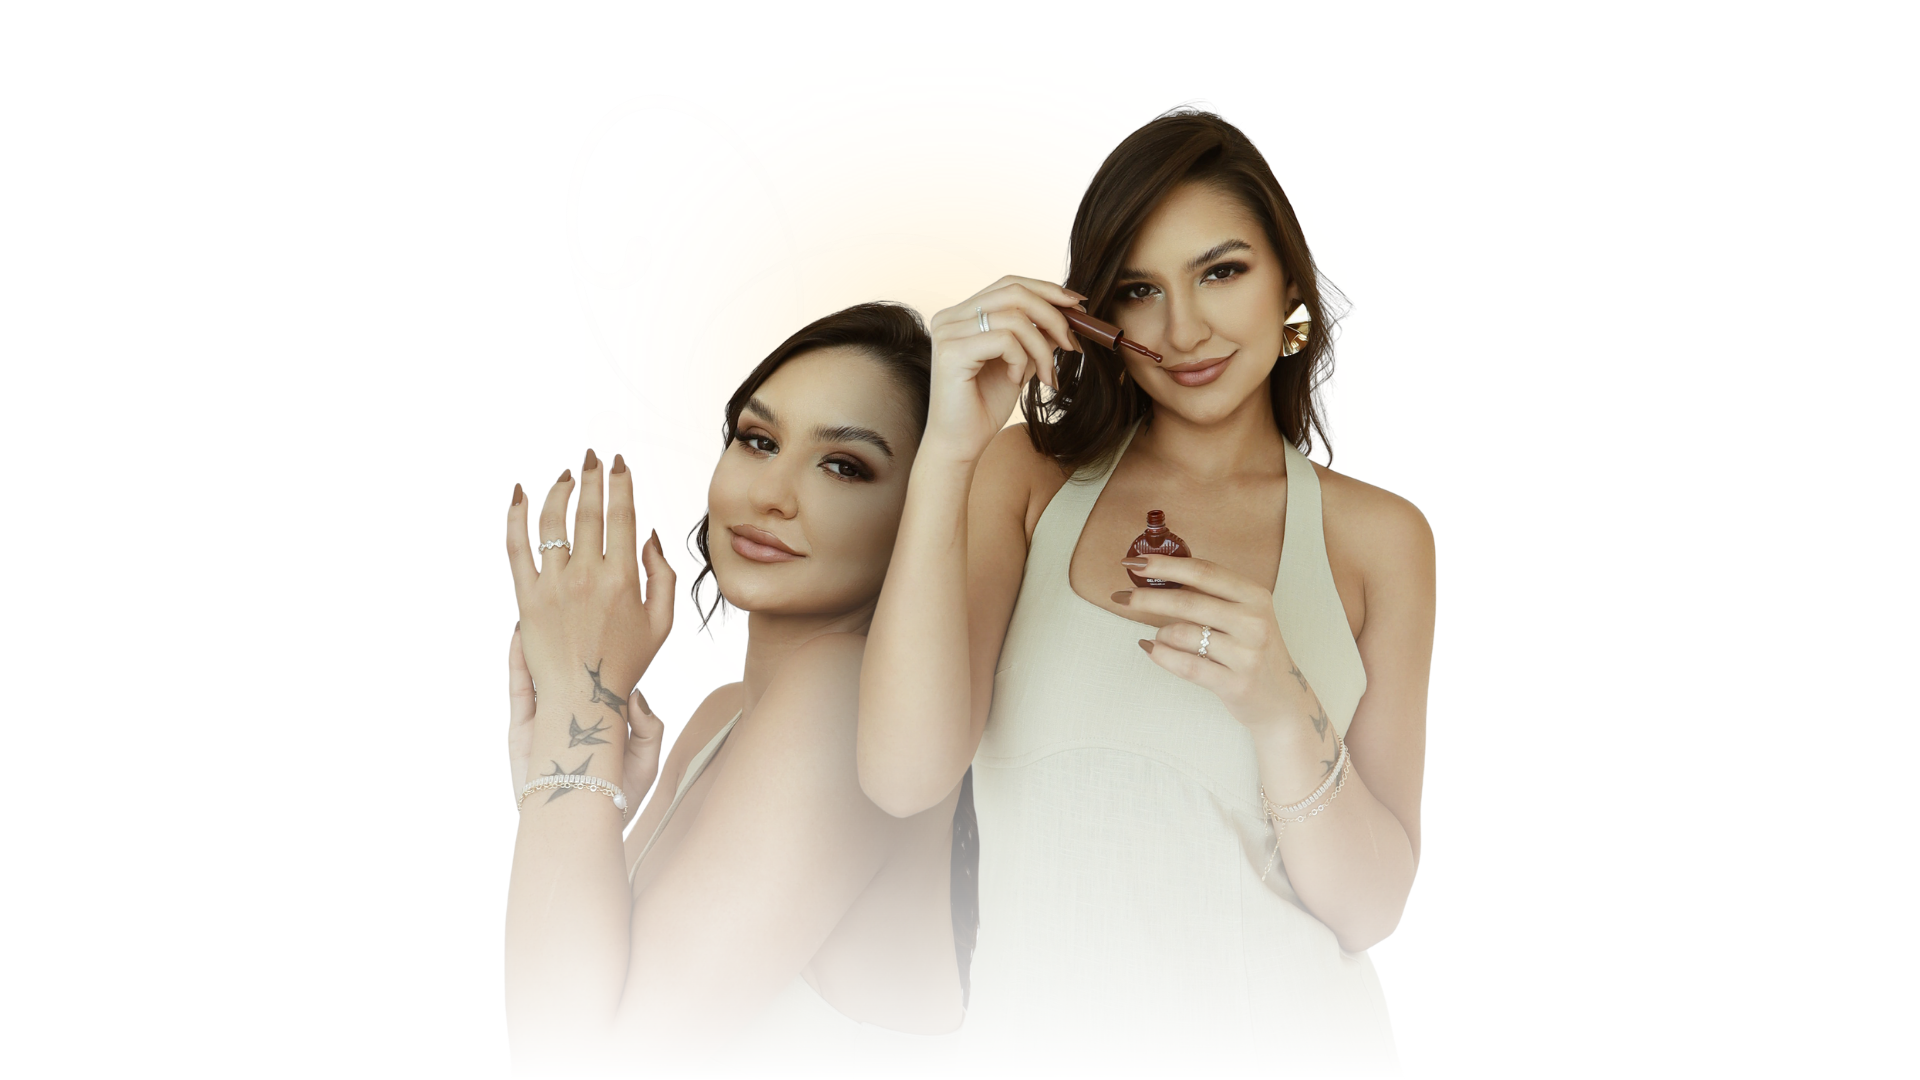
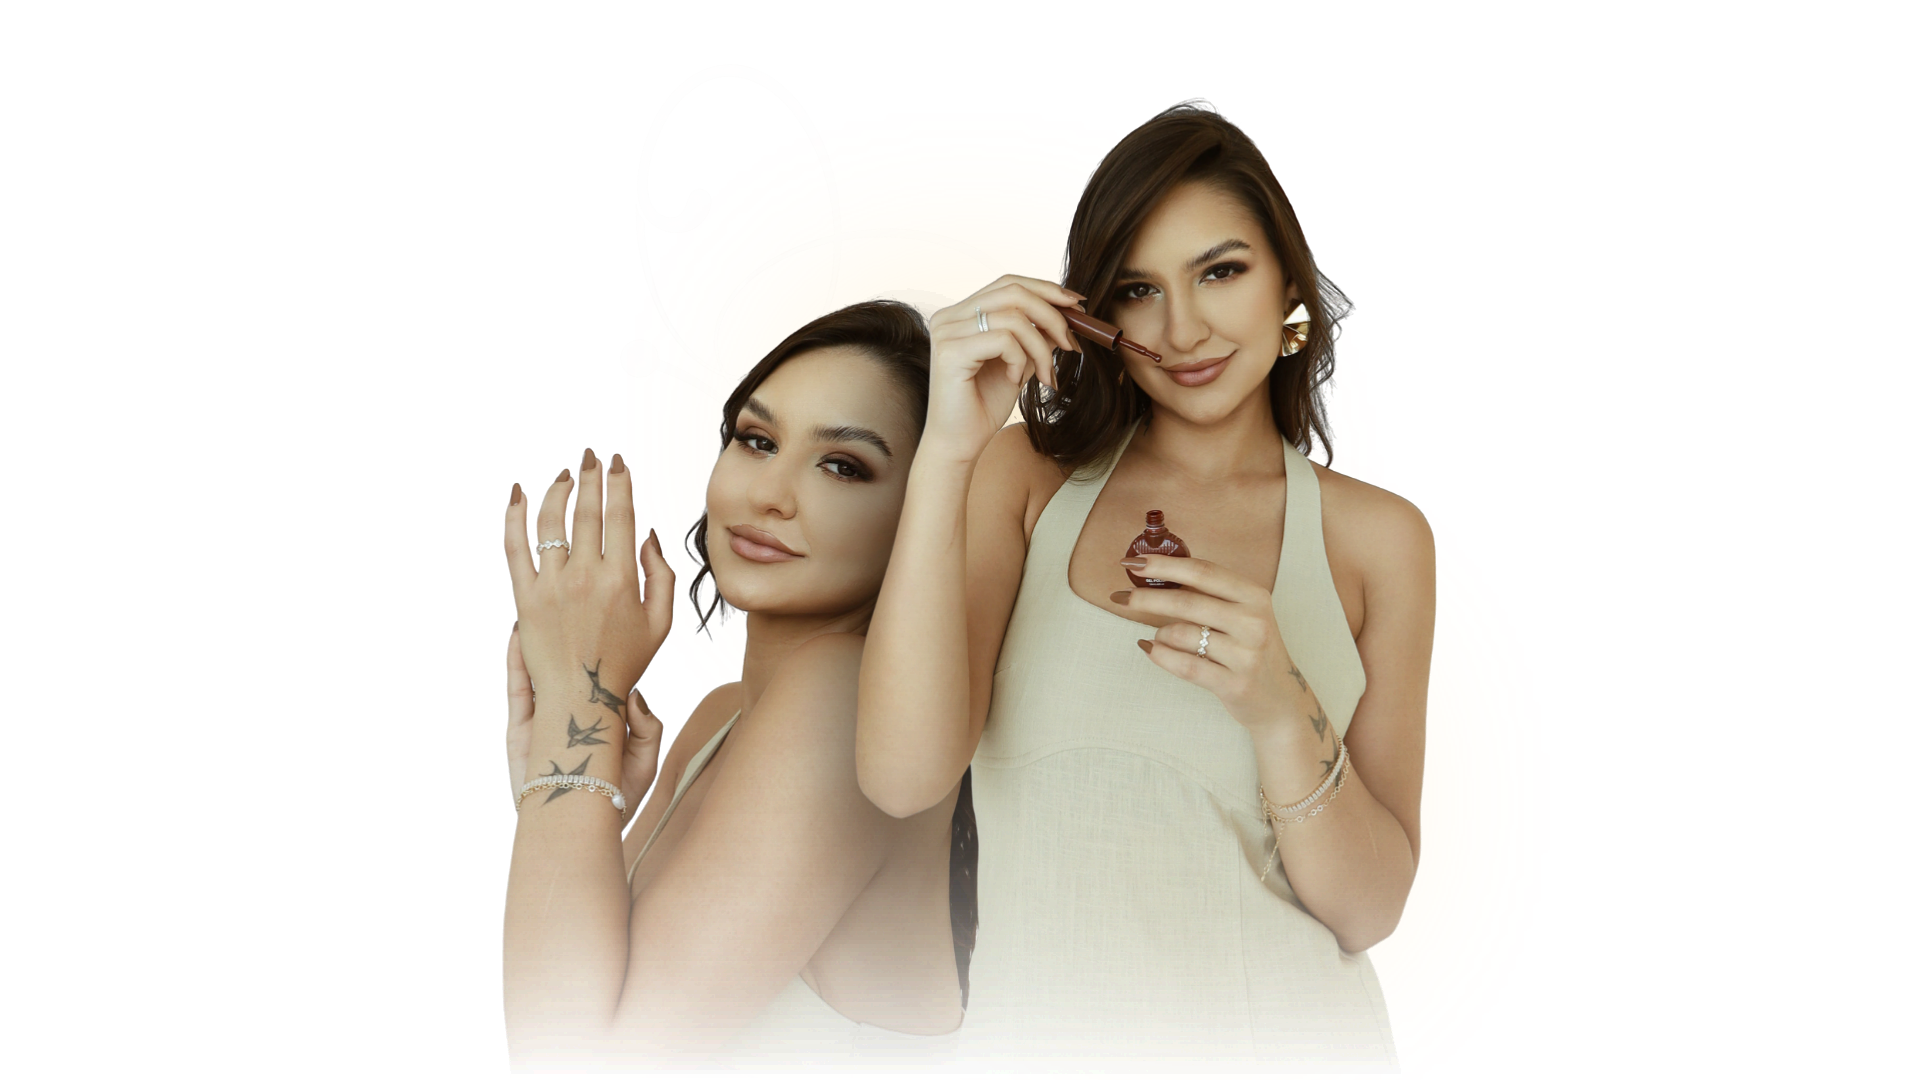
Update font styles for all subtitles on the page
Replaces "poppins regular" font with "destaques.woff2" for all subtitles in the Home page component (`pages/home.tsx`).

Replit-Commit-Author: Agent
Replit-Commit-Session-Id: e0423a9a-13c8-4337-950b-9d3089d77f46
Replit-Commit-Checkpoint-Type: full_checkpoint
Replit-Commit-Event-Id: e7bc75e6-cff7-428d-9801-a6997ba27cca
Replit-Commit-Screenshot-Url: https://storage.googleapis.com/screenshot-production-us-central1/4f3243c0-b88f-4793-b6c8-bced9355e9c6/e0423a9a-13c8-4337-950b-9d3089d77f46/kkCfAYN

diff --git a/client/src/pages/home.tsx b/client/src/pages/home.tsx
@@ -102,41 +102,55 @@ export default function Home() {
       <header className="glow-section text-center relative z-10">
         <div className="container mx-auto max-w-7xl">
           <div className="relative w-full">
-            <img 
-              src={heroImage} 
-              alt="Nail Designer de Sucesso" 
+            <img
+              src={heroImage}
+              alt="Nail Designer de Sucesso"
               className="w-full h-[500px] md:h-[600px] lg:h-[700px] object-cover object-top"
               data-testid="img-hero"
             />
-            <div className="absolute bottom-[-280px] md:bottom-[-140px] left-0 right-0 pb-8 md:pb-8 px-4 md:px-8" style={{
-              background: 'linear-gradient(to top, rgba(19, 12, 12, 0.98) 0%, rgba(19, 12, 12, 0.85) 50%, rgba(19, 12, 12, 0.4) 80%, transparent 100%)'
-            }}>
+            <div
+              className="absolute bottom-[-280px] md:bottom-[-140px] left-0 right-0 pb-8 md:pb-8 px-4 md:px-8"
+              style={{
+                background:
+                  "linear-gradient(to top, rgba(19, 12, 12, 0.98) 0%, rgba(19, 12, 12, 0.85) 50%, rgba(19, 12, 12, 0.4) 80%, transparent 100%)",
+              }}
+            >
               <h1 className="nail-h1 mb-0" data-testid="text-hero-title">
                 Conquiste sua{" "}
-                <span className="gradient-text">Independência Financeira</span> como
-                Nail Designer de Sucesso.
+                <span className="gradient-text">Independência Financeira</span>{" "}
+                como Nail Designer de Sucesso.
               </h1>
-              <p className="nail-subtitle mb-10 md:mb-8 mt-10 md:mt-8" data-testid="text-hero-subtitle">
-                Fature +R$5.000/Mês como Nail Designer de Sucesso, Dominando as
-                Técnicas que as Clientes Amam!
+              <p
+                className="nail-subtitle mb-10 md:mb-8 mt-10 md:mt-8"
+                data-testid="text-hero-subtitle"
+              >
+                Fature +R$5.000/Mês como Nail Designer, Dominando as Técnicas
+                que as Clientes Amam!
               </p>
             </div>
           </div>
           <div className="px-4 md:px-8 pt-64 md:pt-32">
-          <div className="inline-block relative group" style={{ padding: '6px' }}>
-            <a href="#offer" className="cta-button" data-testid="button-cta-hero">
-              Quero me Tornar uma Nail Designer de Sucesso
-              <MoveRightIcon size={24} className="text-black flex-shrink-0" />
-            </a>
-            <BorderBeam 
-              size={100}
-              duration={3}
-              colorFrom="#D19756"
-              colorTo="#F1EEE1"
-              borderThickness={2}
-              beamBorderRadius={12}
-            />
-          </div>
+            <div
+              className="inline-block relative group"
+              style={{ padding: "6px" }}
+            >
+              <a
+                href="#offer"
+                className="cta-button"
+                data-testid="button-cta-hero"
+              >
+                Quero me Tornar uma Nail Designer de Sucesso
+                <MoveRightIcon size={24} className="text-black flex-shrink-0" />
+              </a>
+              <BorderBeam
+                size={100}
+                duration={3}
+                colorFrom="#D19756"
+                colorTo="#F1EEE1"
+                borderThickness={2}
+                beamBorderRadius={12}
+              />
+            </div>
           </div>
         </div>
       </header>
@@ -309,7 +323,10 @@ export default function Home() {
             ou R$ 497 à vista
           </p>
 
-          <div className="inline-block relative group mb-12" style={{ padding: '6px' }}>
+          <div
+            className="inline-block relative group mb-12"
+            style={{ padding: "6px" }}
+          >
             <a
               href="#checkout"
               className="cta-button"
@@ -318,7 +335,7 @@ export default function Home() {
               Quero Garantir Minha Vaga com Desconto!
               <MoveRightIcon size={24} className="text-black flex-shrink-0" />
             </a>
-            <BorderBeam 
+            <BorderBeam
               size={100}
               duration={3}
               colorFrom="#D19756"
